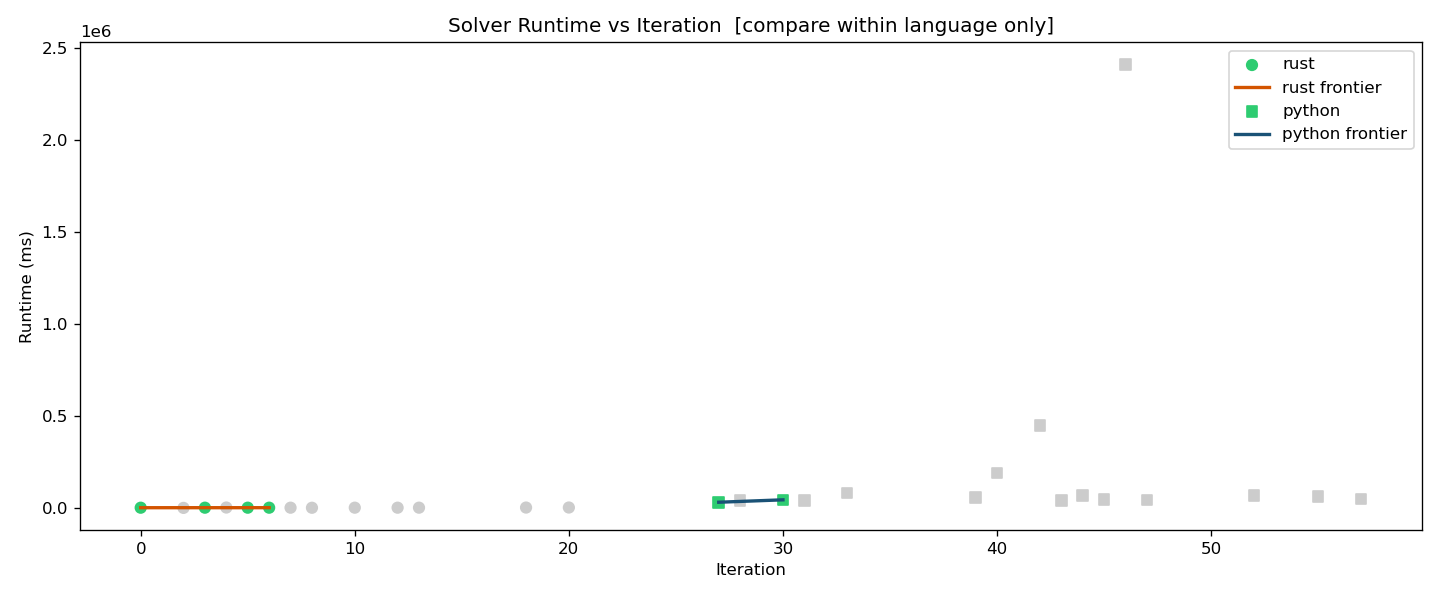
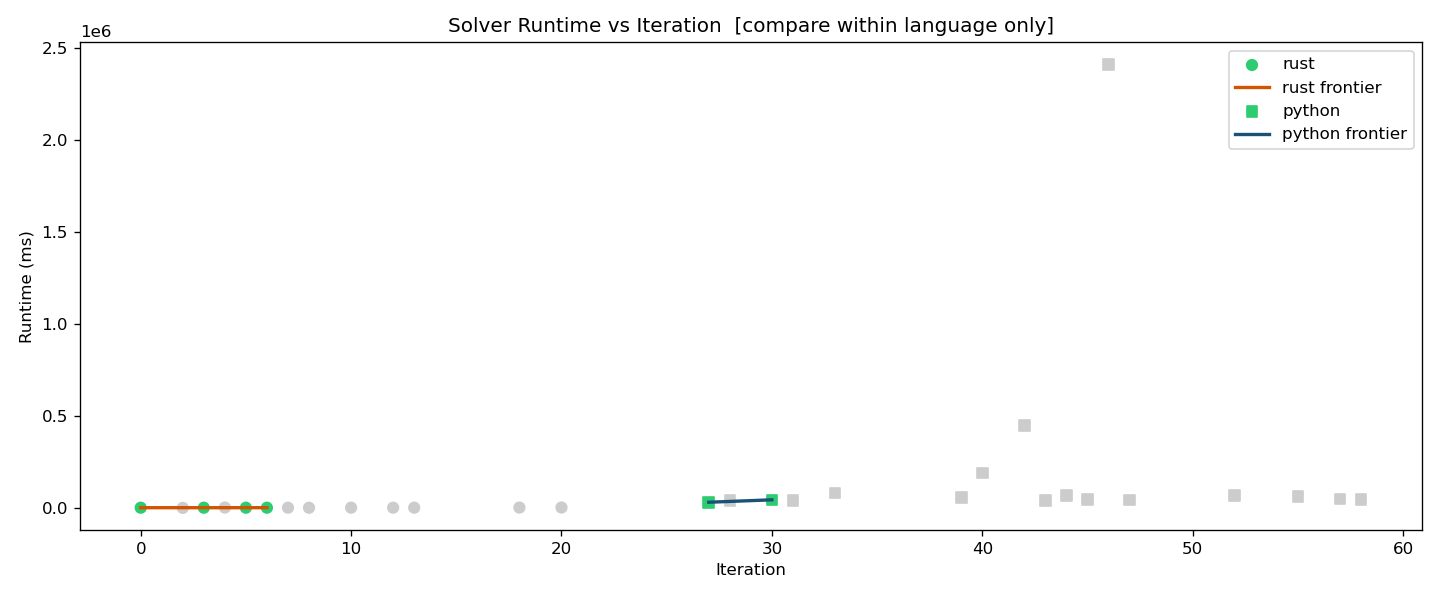
LOG [58]: update research log (experiment/58_aggressive-vehicle-reduction)

diff --git a/research_history.md b/research_history.md
@@ -956,3 +956,11 @@ Result: 40v / 9869.40 / 49098ms / gap 15.80%
 Decision: DISCARDED (quality_improved=False, time_improved=False)
 
 ---
+
+## Iteration 58 — 2026-06-08T21:14:43
+Branch: `experiment/58_aggressive-vehicle-reduction`
+Proposal: Modify solve() to prioritize vehicle reduction with a new aggressive_vehicle_reduction() function that attempts multiple passes and subset removals.
+Result: 40v / 9869.40 / 47568ms / gap 15.80%
+Decision: DISCARDED (quality_improved=False, time_improved=False)
+
+---